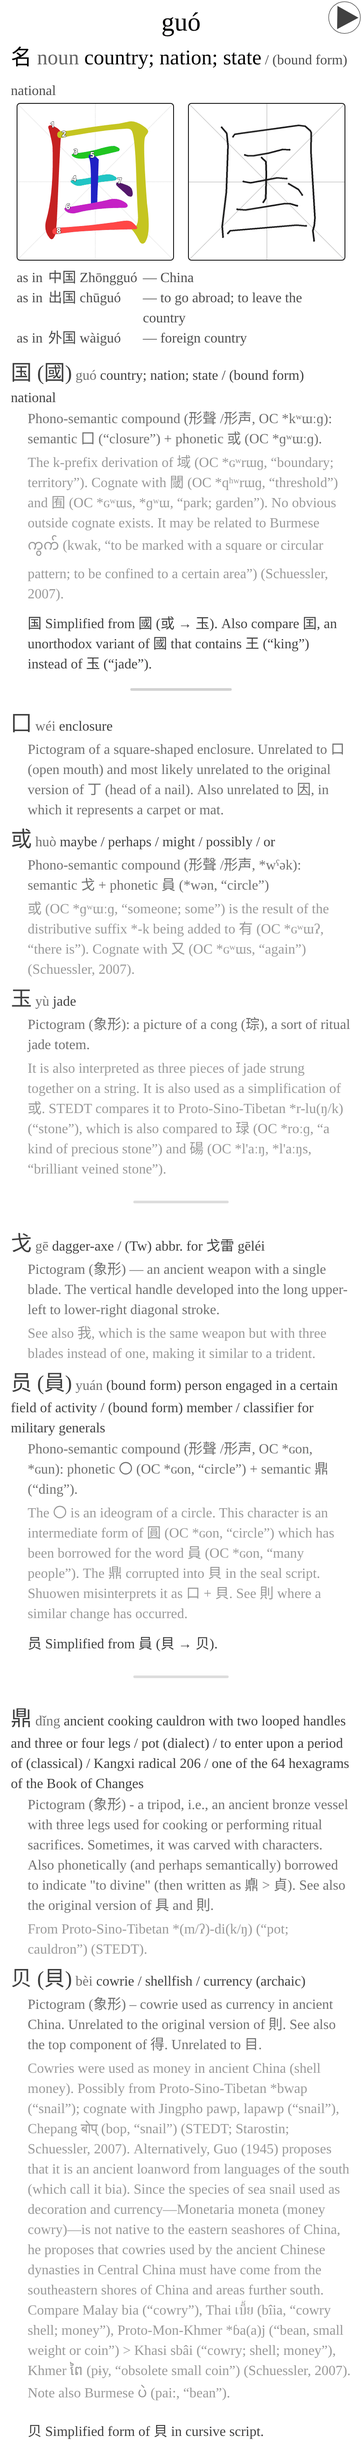
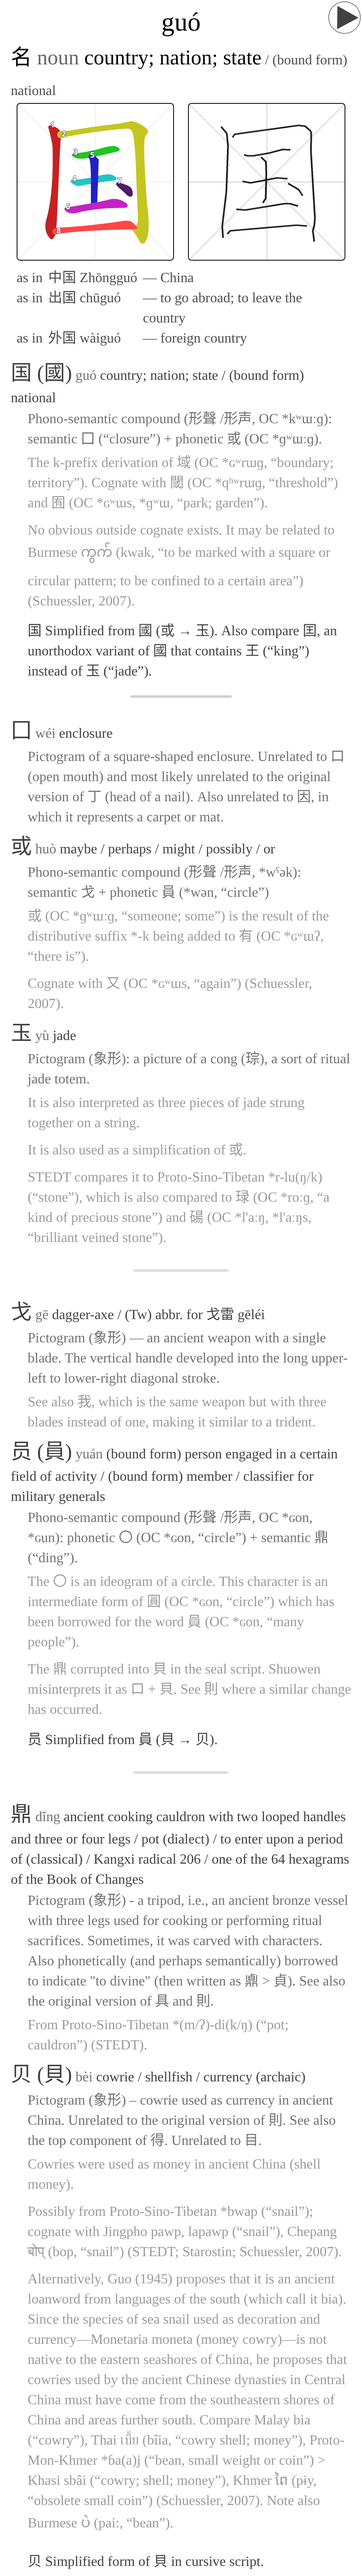
Read the rest of an account as paragraphs, as the lead is read
Including the whole account was done by taking the filter off the paragraphs
after the lead, and those paragraphs were then run together into one block
with a space between them. What they say is separate: 人 goes from what 亼 is,
to what 亻 is, to Sagart's cognate, to the two etymologies Schuessler proposes,
all in one breath and with the markers of his list taken off, so the sub-point
under the first sat between the two as though it were a third.

Each paragraph is now read the way the lead is -- a list it introduces pulled
into it -- and printed as a paragraph of its own.

diff --git a/templates/style.css b/templates/style.css
@@ -219,6 +219,10 @@ img.stroke {
   margin-top: 4px;
 }
 
+/* One of these per paragraph of an account, so a point that is made and finished
+   ends where the next begins rather than running into it. */
+.more + .more { margin-top: 0.5em; }
+
 .glosses {
   font-family: "Rare CJK", "Rare CJK 2", Georgia;
   font-size: 24px;

diff --git a/scripts/04_build_apkg.py b/scripts/04_build_apkg.py
@@ -701,9 +701,9 @@ def load_etymology():
                 out.append((mark, p))
         return out
 
-    def lead_of(ps: list) -> tuple[str, int]:
-        """The opening paragraph with the list under it pulled up, and where that list
-        ends.
+    def joined(ps: list, k: int) -> tuple[str, int]:
+        """The paragraph starting at k with the list under it pulled up, and where
+        that list ends.
 
         "Two theories:" and "a standing man with four head variants:" head the items
         below them and say nothing alone. A term in a definition list is marked and its
@@ -711,7 +711,7 @@ def load_etymology():
         read "Two kinds of glyph are found in Warring States era:" and stopped, with
         the Sanjin glyph and the Chu glyph each described a line below its own term.
         """
-        head, i, items = ps[0][1], 1, []
+        head, i, items = ps[k][1], k + 1, []
         # Only where the head asks for them. A colon promises a list and says nothing
         # without it -- "Two kinds of glyph are found in Warring States era:" -- while
         # a head that closes itself is complete, and the bullets under it belong to
@@ -732,6 +732,24 @@ def load_etymology():
             head = f"{head} {ps[i][1]}"
             i += 1
         return head, i
+
+    def lead_of(ps: list) -> tuple[str, int]:
+        return joined(ps, 0)
+
+    def rest_of(ps: list, i: int) -> list[str]:
+        """The paragraphs after the lead, each still a paragraph.
+
+        Run together into one block they read as a single argument that keeps
+        changing its mind: 人 goes from what 亼 is, to what 亻 is, to Sagart's
+        cognate, to the two etymologies Schuessler proposes, without a break
+        anywhere. Each one is read the way the lead is, so a list arrives as a list
+        rather than as prose with its markers taken off.
+        """
+        out = []
+        while i < len(ps):
+            text, i = joined(ps, i)
+            out.append(text)
+        return out
 
     def paragraphs(ch: str) -> list[tuple[str, str]]:
         e = choose(ch)
@@ -770,7 +788,7 @@ def load_etymology():
                 if not ps:
                     break
                 head, i = lead_of(ps)
-                return head, [p for _, p in ps[i:]]
+                return head, rest_of(ps, i)
         return "", []
 
     def one(ch: str, full: bool) -> str:
@@ -786,12 +804,13 @@ def load_etymology():
         # Two accounts of two shapes, so each is left whole and the simplified one comes
         # last: putting it between the lead and the rest cut 禮's account in two and
         # left "Originally written 豊, see there for more" hanging after 礼's.
+        def quietly(paras: list) -> str:
+            return "".join(f'<div class="more">{tidy(p)}</div>' for p in paras)
+
         later, after = simplification(ch)
         block = (f'<div class="later"><b><a href="https://en.wiktionary.org/wiki/'
                  f'{ch}#Chinese">{ch}</a></b> {tidy(later)}'
-                 + (f'<div class="more">'
-                    f'{" ".join(tidy(p) for p in after)}</div>' if full and after
-                    else "")
+                 + (quietly(after) if full else "")
                  + '</div>'
                  if later and later not in head else "")
         # The section is chosen for being an account of the glyph, and then it comes
@@ -801,11 +820,10 @@ def load_etymology():
         # cognate while losing what the account was building towards. Completeness
         # is the better policy: a paragraph the reader skims costs less than an
         # account that stops without finishing.
-        tail = [p for _, p in ps[i:]]
+        tail = rest_of(ps, i)
         if not full or not tail:
             return head + block
-        rest = " ".join(tidy(p) for p in tail)
-        return f'{head}<div class="more">{rest}</div>{block}'
+        return f'{head}{quietly(tail)}{block}'
 
     return one
 
